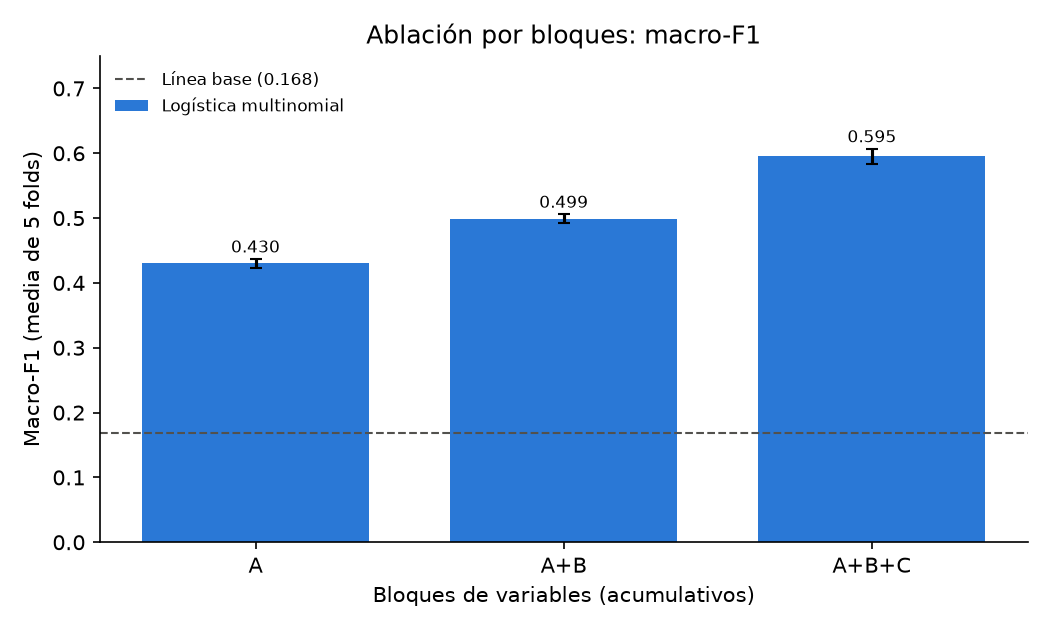
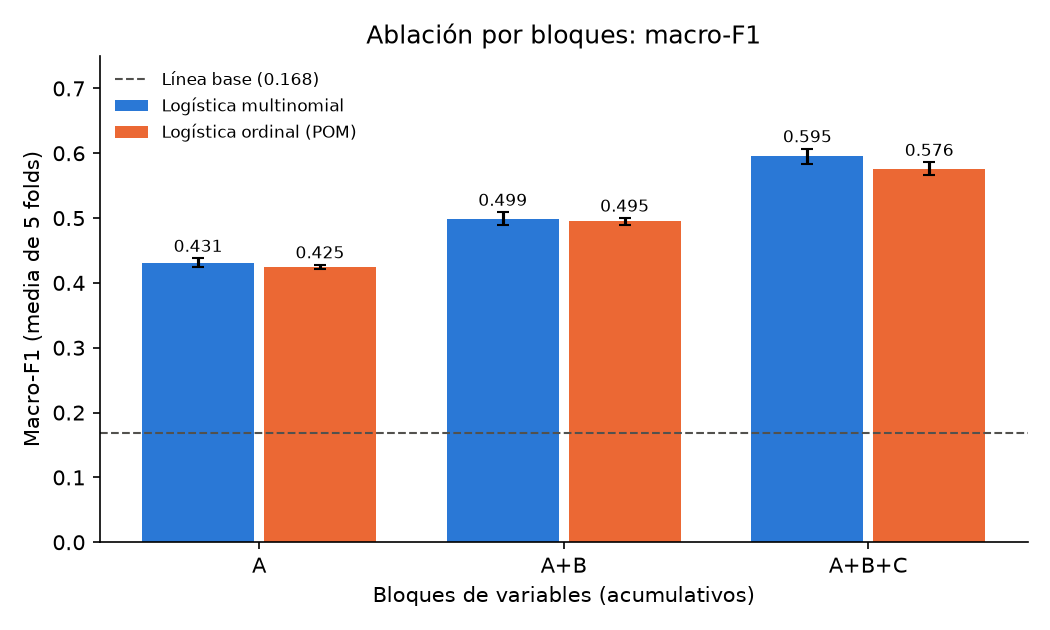
Ajuste de hiperparámetros y ablación final con POM
Ajuste de C por bloque (decisión 34), ablación con logística y POM, métricas y línea base del equipo, 4 figuras para el informe.

diff --git a/scripts/run_ablacion.py b/scripts/run_ablacion.py
@@ -15,7 +15,10 @@ import pandas as pd
 from sklearn.linear_model import LogisticRegression
 from sklearn.metrics import confusion_matrix
 from sklearn.model_selection import cross_val_predict, cross_validate
+import warnings
 
+# Categorías raras no vistas en un fold → se codifican como ceros (decisión 32).
+warnings.filterwarnings("ignore", message="Found unknown categories")
 from ses.config import ROOT
 from ses.evaluation.metrics import CLASES, MENOR_ES_MEJOR, NOMBRES_CLASES, SCORERS, a_signo_normal
 from ses.models.baseline import evaluar_baseline
@@ -33,13 +36,32 @@ except (ImportError, SyntaxError) as error:
 X, y, cv = cargar_entrenamiento()
 
 
+# C de la logística por bloque: sale de ajuste_hiperparametros.py (decisión 34).
+# Si todavía no se ha corrido el ajuste, usa C = 1 (el valor por defecto) y avisa.
+archivo_C = ROOT / "reports" / "tables" / "mejores_C.csv"
+if archivo_C.exists():
+    C_POR_BLOQUE = pd.read_csv(archivo_C).set_index("bloque")["mejor_C"].to_dict()
+else:
+    C_POR_BLOQUE = {}
+    print("AVISO: no existe mejores_C.csv; la logística usa C = 1. Corre antes ajuste_hiperparametros.py")
+
+
+# C de la logística por bloque: sale de ajuste_hiperparametros.py (decisión 34).
+# Si todavía no se ha corrido el ajuste, usa C = 1 (el valor por defecto) y avisa.
+archivo_C = ROOT / "reports" / "tables" / "mejores_C.csv"
+if archivo_C.exists():
+    C_POR_BLOQUE = pd.read_csv(archivo_C).set_index("bloque")["mejor_C"].to_dict()
+else:
+    C_POR_BLOQUE = {}
+    print("AVISO: no existe mejores_C.csv; la logística usa C = 1. Corre antes ajuste_hiperparametros.py")
+
+# Los dos modelos usan class_weight="balanced" (decisiones 31 y 33).
 MODELOS = {
-    "logistica": lambda: LogisticRegression(max_iter=3000, class_weight="balanced"),
+    "logistica": lambda bloque: LogisticRegression(C=C_POR_BLOQUE.get(bloque, 1.0),
+                                                   max_iter=3000, class_weight="balanced"),
 }
 if POM is not None:
-    MODELOS["pom"] = lambda: POM(class_weight="balanced")
-else:
-    print(f"AVISO: no se pudo usar el POM ({ERROR_POM}); corre solo la logística.")
+    MODELOS["pom"] = lambda bloque: POM(class_weight="balanced")
 
 # Modelo principal del proyecto (el del paper): el POM si está; si no, la logística
 PRINCIPAL = "pom" if "pom" in MODELOS else "logistica"
@@ -67,7 +89,7 @@ print(f"{'baseline':10s} línea base: f1_macro = {f1_base:.3f}")
 
 for nombre, crear_modelo in MODELOS.items():
     for bloque in BLOQUES:
-        pipe = construir_pipeline(crear_modelo(), bloque)
+        pipe = construir_pipeline(crear_modelo(bloque), bloque)
         r = cross_validate(pipe, X, y, cv=cv, scoring=SCORERS)
         guardar(nombre, bloque, r)
         print(f"{nombre:10s} bloque {ETIQUETA_BLOQUE[bloque]:6s}: "
@@ -122,7 +144,7 @@ def barras(ax, metrica, etiquetas_valor=False):
     ax.spines[["top", "right"]].set_visible(False)
 
 
-# 5.1 Figura principal: macro-F1 por bloque
+#  Figura principal: macro-F1 por bloque
 fig, ax = plt.subplots(figsize=(7, 4.2))
 barras(ax, "f1_macro", etiquetas_valor=True)
 ax.set_ylim(0, 0.75)
@@ -134,7 +156,7 @@ fig.tight_layout()
 fig.savefig(figuras / "ablacion.png", dpi=150)
 plt.close(fig)
 
-# 5.2 Las 6 métricas del equipo, un panel por métrica (cada una con su propia escala)
+#  Las 6 métricas del equipo, un panel por métrica (cada una con su propia escala)
 TITULO = {
     "f1_macro": "Macro-F1", "qwk": "QWK", "mae_ordinal": "MAE ordinal (clases)",
     "pct_errores_lejanos": "Errores a distancia ≥ 2", "recall_pobre": "Recall de Pobre",
@@ -153,14 +175,13 @@ fig.tight_layout(rect=(0, 0.06, 1, 0.97))
 fig.savefig(figuras / "ablacion_metricas.png", dpi=150)
 plt.close(fig)
 
-# 5.3 Matrices de confusión del modelo principal: ¿dónde se equivoca?
+# Matrices de confusión del modelo principal: ¿dónde se equivoca?
 #     cross_val_predict da, para cada hogar, la predicción del fold en que fue validación.
 #     Se normaliza por fila: % de cada clase real que cae en cada clase predicha.
 nombres_clases = [NOMBRES_CLASES[c] for c in CLASES]
 fig, ejes = plt.subplots(1, 2, figsize=(10, 4.4))
 for ax, bloque in zip(ejes, ["B", "C"]):
-    pred = cross_val_predict(construir_pipeline(MODELOS[PRINCIPAL](), bloque), X, y, cv=cv)
-    cm = confusion_matrix(y, pred, labels=CLASES, normalize="true") * 100
+    pred = cross_val_predict(construir_pipeline(MODELOS[PRINCIPAL](bloque), bloque), X, y, cv=cv)
     ax.imshow(cm, cmap="Blues", vmin=0, vmax=100)
     for i in range(len(CLASES)):
         for j in range(len(CLASES)):

diff --git a/scripts/ajuste_hiperparametros.py b/scripts/ajuste_hiperparametros.py
@@ -2,11 +2,85 @@
 se hace directamente en la ablacion ya que se pierde un orden
  pre establecido por el grupo y ademas para no mezclar rutas de 
  trabajo diferentes  """
+# %% 
+
+import matplotlib.pyplot as plt
 import pandas as pd
 from sklearn.linear_model import LogisticRegression
 from sklearn.model_selection import GridSearchCV
-
+ 
 from ses.config import ROOT
 from ses.pipeline import cargar_entrenamiento, construir_pipeline
+ 
 
 X, y, cv = cargar_entrenamiento()
+ 
+
+
+#    C es el INVERSO de la fuerza de regularización: C pequeño = modelo más simple.
+#    Solo penalización L2 (la de por defecto); L1 queda en los candidatos de Gaby.
+
+GRILLA_C = [0.001, 0.01, 0.1, 1, 10, 100]
+param_grid = {"modelo__C": GRILLA_C}      # "modelo" es el nombre del paso en construir_pipeline
+ 
+BLOQUES = ["A", "B", "C"]
+ETIQUETA_BLOQUE = {"A": "A", "B": "A+B", "C": "A+B+C"}
+ 
+mejores = []   # mejor C de cada bloque → mejores_C.csv
+detalle = []   # todos los C probados   → ajuste_C_detalle.csv
+
+#  Búsqueda por bloque 
+for bloque in BLOQUES:
+    modelo = LogisticRegression(max_iter=3000, class_weight="balanced")   # decisión 33
+    pipe = construir_pipeline(modelo, bloque)
+ 
+    busqueda = GridSearchCV(pipe, param_grid, cv=cv, scoring="f1_macro", n_jobs=-1)
+    busqueda.fit(X, y)
+ 
+    res = busqueda.cv_results_
+    i = busqueda.best_index_
+    mejor_C = busqueda.best_params_["modelo__C"]
+    mejores.append({"bloque": bloque, "mejor_C": mejor_C,
+                    "f1_macro_media": res["mean_test_score"][i],
+                    "f1_macro_desv": res["std_test_score"][i],
+                    "en_borde_grilla": mejor_C in (GRILLA_C[0], GRILLA_C[-1])})
+ 
+    for C, media, desv in zip(GRILLA_C, res["mean_test_score"], res["std_test_score"]):
+        detalle.append({"bloque": bloque, "C": C, "f1_macro_media": media, "f1_macro_desv": desv})
+ 
+    aviso = "  ← en el borde de la grilla: revisar" if mejor_C in (GRILLA_C[0], GRILLA_C[-1]) else ""
+    print(f"Bloque {ETIQUETA_BLOQUE[bloque]:6s}: mejor C = {mejor_C:<6}  "
+          f"f1_macro = {res['mean_test_score'][i]:.3f} ± {res['std_test_score'][i]:.3f}{aviso}")
+#Tablas 
+tablas = ROOT / "reports" / "tables"
+figuras = ROOT / "reports" / "figures"
+tablas.mkdir(parents=True, exist_ok=True)
+figuras.mkdir(parents=True, exist_ok=True)
+ 
+pd.DataFrame(mejores).round(4).to_csv(tablas / "mejores_C.csv", index=False)
+detalle = pd.DataFrame(detalle).round(4)
+detalle.to_csv(tablas / "ajuste_C_detalle.csv", index=False)
+ 
+
+# Figura: macro-F1 según C (escala logarítmica), una línea por bloque
+
+COLOR = {"A": "#2a78d6", "B": "#eb6834", "C": "#1baf7a"}
+fig, ax = plt.subplots(figsize=(7, 4.2))
+for bloque in BLOQUES:
+    d = detalle[detalle["bloque"] == bloque]
+    ax.errorbar(d["C"], d["f1_macro_media"], yerr=d["f1_macro_desv"], marker="o",
+                capsize=3, linewidth=2, color=COLOR[bloque], label=ETIQUETA_BLOQUE[bloque])
+ax.set_xscale("log")
+ax.set_ylim(0, 0.75)
+ax.set_xlabel("C (escala logarítmica; mayor C = menos regularización)")
+ax.set_ylabel("Macro-F1 (media de 5 folds)")
+ax.set_title("Ajuste de C de la regresión logística por bloque")
+ax.legend(title="Bloques", frameon=False)
+ax.spines[["top", "right"]].set_visible(False)
+fig.tight_layout()
+fig.savefig(figuras / "ajuste_C.png", dpi=150)
+plt.close(fig)
+ 
+print("Guardado: mejores_C.csv, ajuste_C_detalle.csv y ajuste_C.png")
+ 
+# %%

diff --git a/docs/decisiones.md b/docs/decisiones.md
@@ -35,4 +35,5 @@
 | 31 | 2026-10-26 | El POM predictivo usa `class_weight="balanced"` | Sin pesos | Comparación justa con la logística de Juanita, que también usa pesos balanceados. En validación cruzada (bloque C), el recall de Alta sube de 0,33 a 0,83, a cambio de que la macro-F1 baje de 0,594 a 0,576 | Silva |
 | 32 | 2026-10-26 | Categorías nominales que aparecen en validación y no en el entrenamiento del fold se codifican como ceros (`OneHotEncoder(handle_unknown="ignore")`). Ocurre en `material_paredes` y `combustible_cocina`, que tienen categorías con muy pocos hogares | Agrupar las categorías poco frecuentes en una categoría "otra" (`min_frequency`) | Afecta a muy pocos hogares por fold y no cambia los resultados de la ablación (desviación ≤ 0,012); el pipeline no se rompe con categorías nuevas. Agrupar categorías raras queda como mejora para la entrega final, cuidando no mezclar categorías de vivienda precaria con otras | Juanita |
 | 33 | 2026-10-27 | La regresión logística multinomial de la ablación usa `class_weight="balanced"`, igual que el POM (decisión 31), para que los dos modelos se comparen en igualdad de condiciones | Entrenar sin pesos (todas las observaciones pesan lo mismo) | La clase Alta es solo el 4,4 % de los hogares (696 en entrenamiento). Sin pesos, el modelo tiende a ignorarla, como la línea base, que tiene recall de Alta = 0. Con pesos balanceados, cada hogar pesa en proporción inversa al tamaño de su clase, y la logística alcanza un recall de Alta de 0,79 (A) a 0,85 (A+B+C), sin perder macro-F1 | Juanita |
+| 34 | 2026-10-27 | Ajuste de C (regularización L2) de la regresión logística con `GridSearchCV`, por bloque, con macro-F1 y los mismos 5 folds; grilla logarítmica C ∈ {0,001; 0,01; 0,1; 1; 10; 100}. Se usa el mejor C de cada bloque (A: 100; A+B: 0,1; A+B+C: 1), guardado en `reports/tables/mejores_C.csv` y leído por `run_ablacion.py` (`scripts/ajuste_hiperparametros.py`). El POM no se ajusta: se mantiene sin regularizar (`alpha = 0`), como en el paper (decisión 26) | No ajustar (C = 1 por defecto); regla de una desviación estándar (elegir el C más pequeño dentro de una desviación del mejor) | Desde C = 0,1 el macro-F1 forma una meseta en los tres bloques: las diferencias (≤ 0,001) son menores que la desviación entre folds (0,006–0,011). Con C ≤ 0,01 el modelo subajusta (A+B+C baja de 0,595 a ≈ 0,525). El mejor C de A queda en el borde de la grilla, pero la curva es plana, así que ampliarla no cambia el resultado. Con 15.728 hogares y pocas columnas el modelo no se sobreajusta, y el orden entre bloques (A < A+B < A+B+C) no depende de C: la conclusión de la ablación es robusta al ajuste | Juanita |
 
